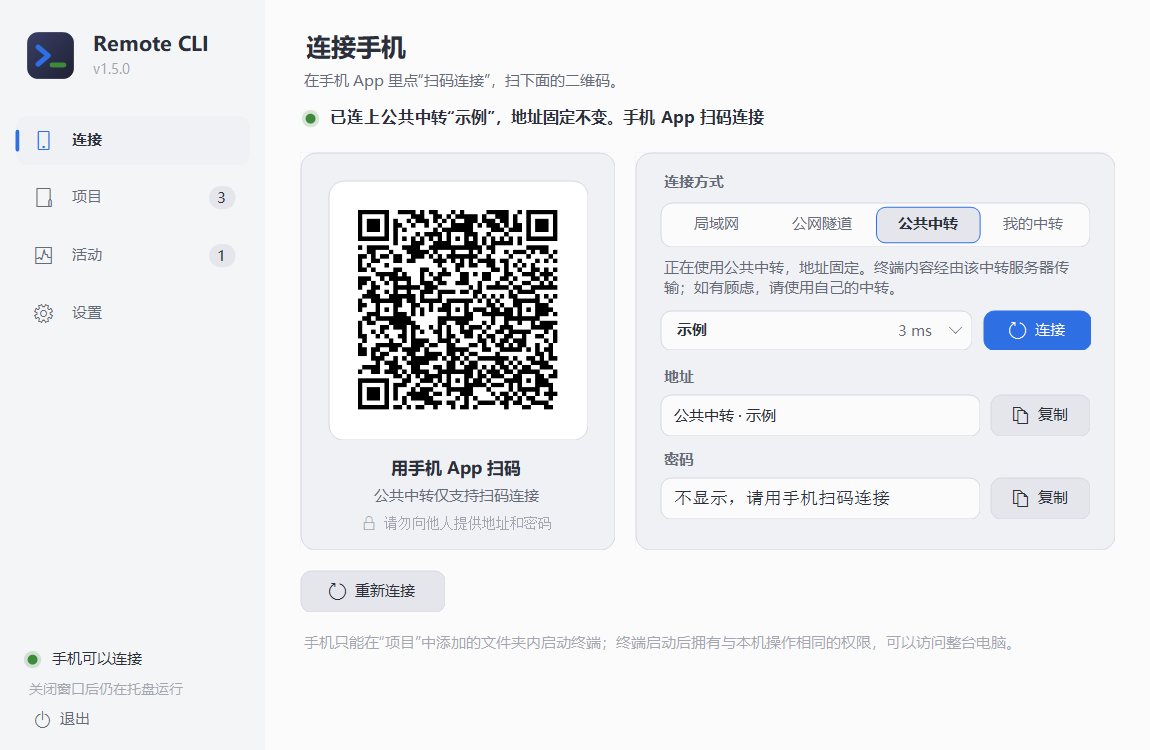
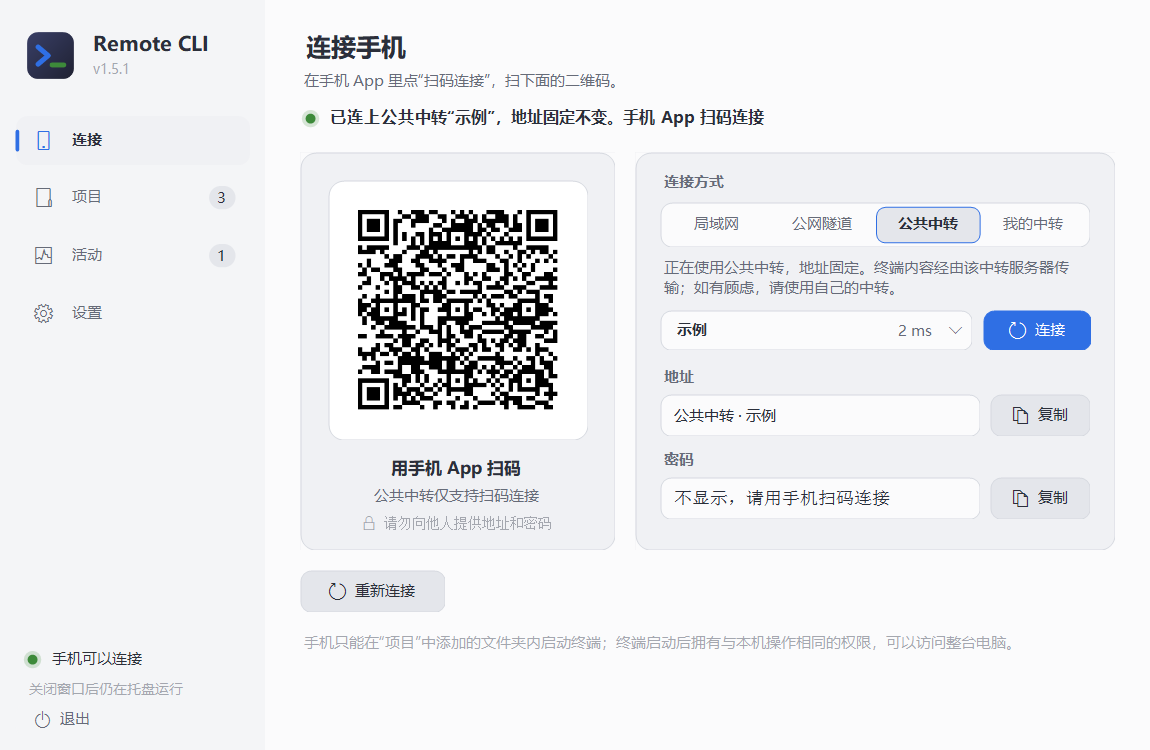
chore(release): 1.5.1; the pictures of the window drawn anew

Changed region(s): [[0.3043, 0.276, 0.487, 0.552]]

diff --git a/agent-windows/Setup.cs b/agent-windows/Setup.cs
@@ -15,7 +15,7 @@ namespace RemoteCli {
 ///   --quiet            no questions and no start afterwards
 ///   --dir <folder>     where to install (default: the folder of an earlier installation, else %LOCALAPPDATA%\Programs\RemoteCli)
 public static class Setup {
-    const string Version = "1.5.0", Name = "Remote CLI";
+    const string Version = "1.5.1", Name = "Remote CLI";
     // REMOTECLI_SETUP_SANDBOX=1 is for the tests: its own registry entry and shortcut names, and no look at a running
     // copy, so trying the installer never touches a real installation.
     static readonly bool Sandbox = Environment.GetEnvironmentVariable("REMOTECLI_SETUP_SANDBOX") == "1";

diff --git a/agent-windows/RemoteCliApp.cs b/agent-windows/RemoteCliApp.cs
@@ -22,7 +22,7 @@ namespace RemoteCli {
 /// The program on the computer: a small window and a tray icon around the relay, the optional tunnel and the
 /// terminal agent. Everything it starts ends when it exits.
 public sealed partial class App : Form {
-    const string Version = "1.5.0";
+    const string Version = "1.5.1";
     const string TunnelDownload = "https://github.com/cloudflare/cloudflared/releases/latest/download/cloudflared-windows-amd64.exe";
     readonly string appDir = AppDomain.CurrentDomain.BaseDirectory.TrimEnd('\\');
     readonly string dataDir = TerminalAgent.DefaultData;

diff --git a/tools/package_windows.py b/tools/package_windows.py
@@ -13,7 +13,7 @@ import zipfile
 from pathlib import Path
 
 ROOT = Path(__file__).resolve().parents[1]
-VERSION = "1.5.0"
+VERSION = "1.5.1"
[1 lines of base64/hex data omitted]
 # Parts of the embeddable Python the relay never loads.
 UNUSED = ("_msi.pyd", "_sqlite3.pyd", "sqlite3.dll", "_elementtree.pyd", "pyexpat.pyd", "_wmi.pyd", "_zoneinfo.pyd", "winsound.pyd",

diff --git a/relay/server.py b/relay/server.py
@@ -27,7 +27,7 @@ sys.path.insert(0, os.path.dirname(os.path.abspath(__file__)))   # an embedded P
 import relay  # noqa: E402
 import websocket  # noqa: E402
 
-VERSION = "1.5.0"
+VERSION = "1.5.1"
 SESSION_DAYS = 90
 LOGIN_TRIES, LOGIN_LOCK, LOGIN_TRIES_ALL = 6, 900, 40
 BODY_LIMIT = 4 * 1024 * 1024
